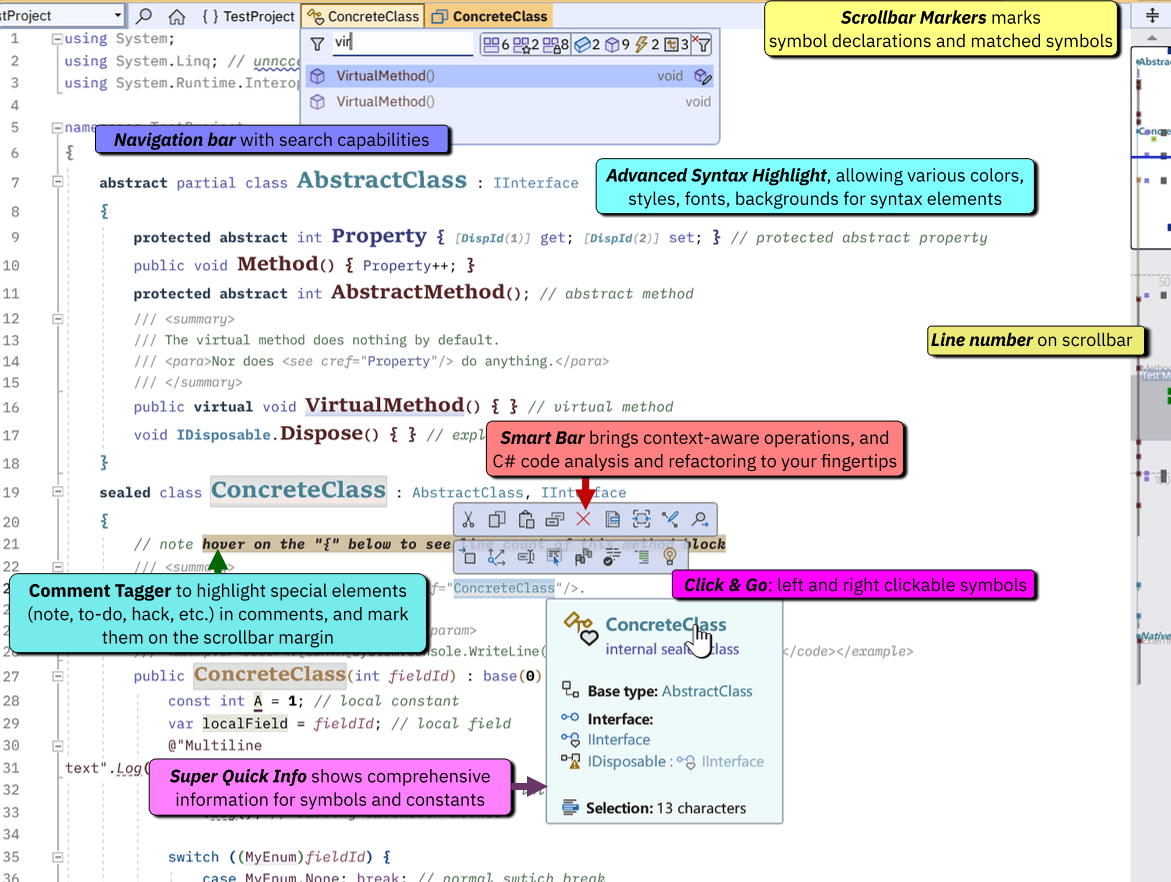
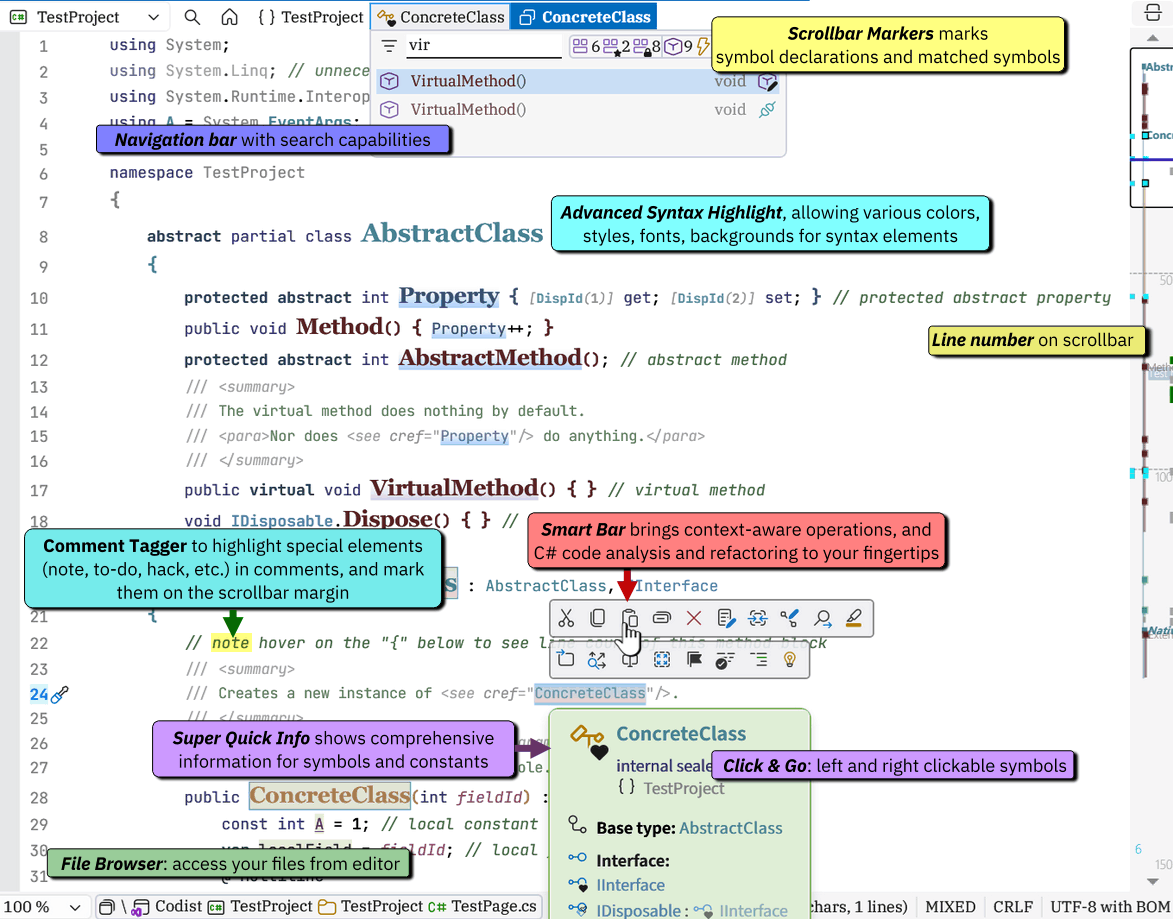
! Update readme file

diff --git a/README.md b/README.md
@@ -26,6 +26,7 @@ Check out this list to see what _Codist_ can do for you.
 * [Display Enhancements](#display-enhancements)
 * [Jump List Shortcuts](#jump-list-shortcuts)
 * [Auto Pair Punctuations](#auto-pair-punctuations)
+* [File Browser](#file-browser)
 * [Codist in Your Language](#codist-in-your-language)
 * [Others](#other-features)
 * [Comprehensive Configurations](#feature-control)
@@ -557,6 +558,60 @@ To make this work, follow the steps below:
 From version 8.1 on, while you auto-complete a C# method name or a delegate variable, Codist will try to append parentheses for method or delegate invocation, by evaluating the context.
 
 You can toggle the above features by changing the _Pair close punctuation_ and the _Append parentheses on completing method names_ options in the option page under the __Auto Pair Punctuation_ section.
+
+## File Browser
+
+From version 9 on, Codist offers quick access to your files without leaving Visual Studio.
+
+There are two ways to bring out the File Browser.
+
+### File Browser Window
+
+The first approach is to access it via the *Edit/File Browser* menu. A window pane will appear nearby the *Properties* window displaying the files within the directory of the current working file.
+
+![File Browser Window](doc/file-browser-window.png)
+
+There are three parts in the window.
+
+The most obvious part is the file list at the bottom. The active file, or folder containing the active file will be **bold**. Optionally, you can "Dim non-solution files", so files not belonging to the current solution will be displayed semi-transparently.
+
+You can right click the items on the list to bring out a context menu with more commands. The *Cut*, *Copy*, *Paste*, *Delete*, *Rename* and *Properties* commands works as the same as the corresponding ones in Windows Explorer. Typically, the *Delete* command will move files to the Recycle Bin, and pressing Shift when executing that command will remove the selected files or folders permanently.
+
+At the top is a button that brings out a menu with commands that you can operate on to the folder that contains the active file, such as *Open Folder in Windows Explorer*. Besides the button is the address of the folder. Each part can be click to lsit the corresponding contents.
+
+Below to the top row are some buttons and the filters.
+
+The first *Selection Menu* button brings out a menu to allow you multi-select items in the file list. Another way to multi-select items in the file list is to press the *Ctrl* or *Shift* key when clicking on them.
+
+The second *Navigate Back* button allows you jump back to the previous folder.
+
+The third *Synchonize with Active File* button, when pressed, will force the file list to track down the folder of the active file, which might be useful.
+
+The rest are filter buttons and text box that can be used to filter contents of the file list or shortcuts pointing to the folder containing the current solution, project or active file.
+
+### File Browser Margin
+
+The second approach to access the file browser is via buttons at the bottom of a code window.
+
+![File Browser Margin](doc/file-browser-margin.png)
+
+There are usually five buttons next to the *Zoom* control.
+
+The 1st button will list the *Solution and Projects*. Clicking on items within the list will list the folder containing the corresponding solution file or project file.
+
+The 2nd button is a shortcut button which lists the folder contents where the current solution file locates.
+
+The 3rd button is a shortcut button which lists the folder contents where the current project file locates. If a file does not belong to any project, this button will be invisible.
+
+The 4th button lists the folder containing current file.
+
+The 5th button lists currently opened document windows.
+
+### Customizing File Browser
+
+Codist offers various options for the File Browser. You can change the behavior or appearances via the *Codist Options* dialog.
+
+![File Browser Options](doc/file-browser-options.png)
 
 ## Codist in Your Language
 